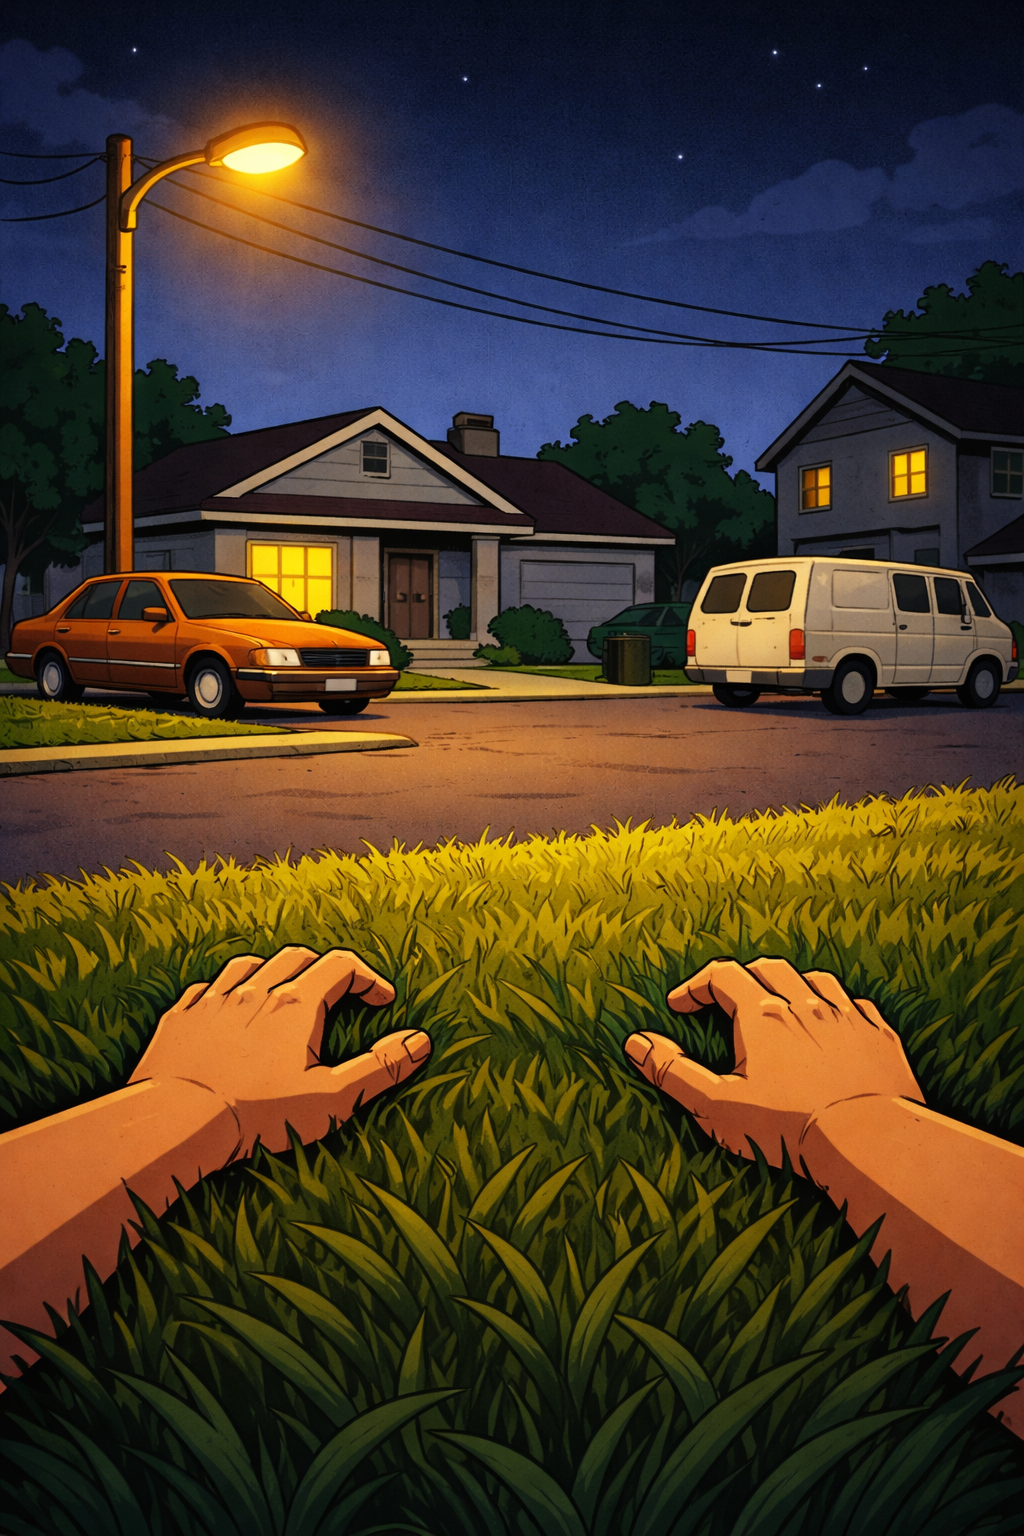
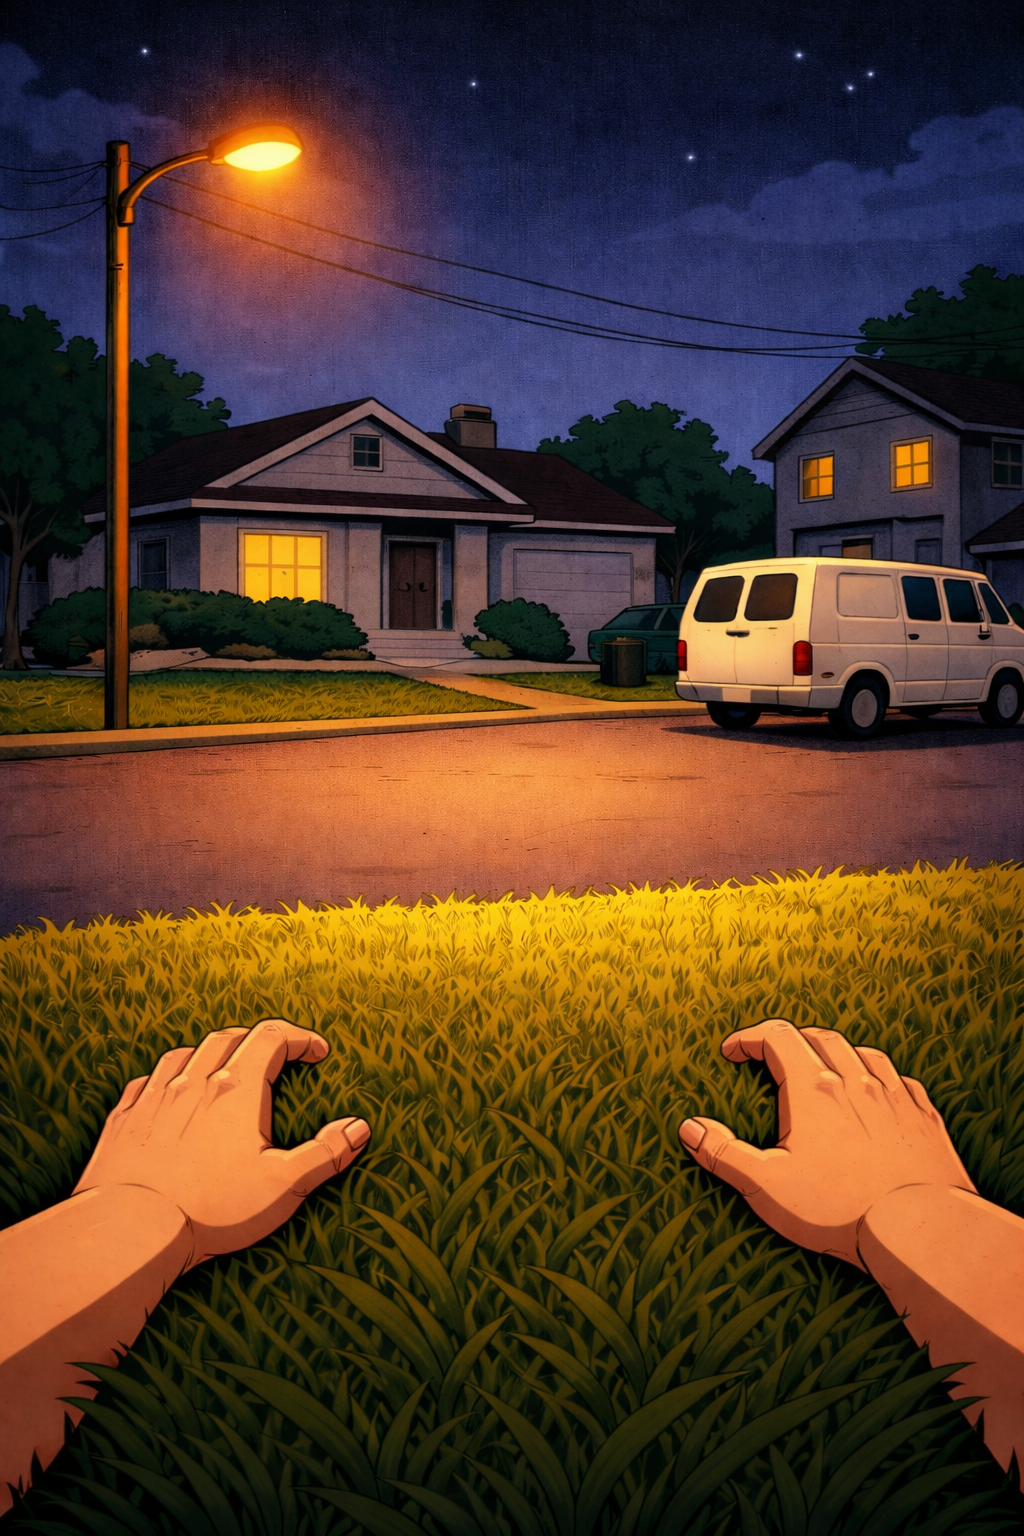
Add street exit scene and update interactions in car mirror check and porch scenes

diff --git a/src/data/chapter01/car-mirror-check.ts b/src/data/chapter01/car-mirror-check.ts
@@ -6,10 +6,10 @@ const carMirrorCheck: SceneDefinition = {
   name: "Car Mirror",
   description:
     "I check my reflection in a parked car’s side mirror. Baggy clothes, oversized boots. Runaway teenager: plausible cover.",
-  imageSrc: "/scenes/chapter01_clothes/car-mirror-check.png",
+  imageSrc: "/scenes/chapter01/car-mirror-check.png",
   interactions: [
     { label: "Leave the yard", effect: setScene("street-exit") },
-    { label: "Go back to the porch", effect: setScene("porch-boots") },
+    { label: "Go back to the porch", effect: setScene("porch") },
   ],
   objects: [
     {
@@ -22,14 +22,16 @@ const carMirrorCheck: SceneDefinition = {
         {
           label: "Confirm disguise",
           effect: (state) => {
-            const dressed =
-              state.inventory.includes("stolen-jeans") &&
-              state.inventory.includes("hang-in-there-t-shirt") &&
-              state.inventory.includes("oversized-boots");
+            // const dressed =
+            //   state.inventory.includes("stolen-jeans") &&
+            //   state.inventory.includes("hang-in-there-t-shirt") &&
+            //   state.inventory.includes("oversized-boots");
 
-            if (!dressed) {
-              return setMessage("Not convincing yet. I’m missing key components: fabric.")(state);
-            }
+            // if (!dressed) {
+            //   return setMessage(
+            //     "Not convincing yet. I’m missing key components: fabric."
+            //   )(state);
+            // }
 
             const stuffed = state.inventory.includes("newspaper-stuffing");
             return setMessage(

diff --git a/src/data/chapter01/porch.ts b/src/data/chapter01/porch.ts
@@ -13,13 +13,13 @@ const porchBoots: SceneDefinition = {
       effect: setScene("backyard-clothesline"),
     },
     {
-      label: "Check reflection in the car",
+      label: "Get to the street",
       effect: (state) => {
         const hasBoots = state.inventory.includes("oversized-boots");
         if (!hasBoots) {
           return setMessage("Bare feet are a liability. Acquire boots.")(state);
         }
-        return setScene("car-mirror-check")(state);
+        return setScene("street-exit")(state);
       },
     },
   ],
@@ -31,7 +31,7 @@ const porchBoots: SceneDefinition = {
         "Men’s size. Too big. Still better than frostbite and police attention.",
       visible: (s) => !s.inventory.includes("oversized-boots"),
       imageSrc: "/scenes/chapter01/porch-boots.png",
-      boundingBox: { x: 0.24, y: 0.62, width: 0.36, height: 0.22 },
+      boundingBox: { x: 0.5, y: 0.37, width: 0.29, height: 0.14 },
       interactions: [
         { label: "Take boots", effect: addToInventory("oversized-boots") },
       ],
@@ -43,7 +43,7 @@ const porchBoots: SceneDefinition = {
         "Ink, lies, and useful stuffing. Tonight, it’s mostly the third one.",
       visible: (s) => !s.inventory.includes("newspaper-stuffing"),
       imageSrc: "/scenes/chapter01/porch-newspaper.png",
-      boundingBox: { x: 0.62, y: 0.67, width: 0.28, height: 0.18 },
+      boundingBox: { x: 0.06, y: 0.63, width: 0.56, height: 0.22 },
       interactions: [
         {
           label: "Tear for boot stuffing",

diff --git a/src/data/chapter01/street-exit.ts b/src/data/chapter01/street-exit.ts
@@ -6,7 +6,7 @@ const streetExit: SceneDefinition = {
   name: "Suburban Street",
   description:
     "Now dressed, I can think about money, transport, and my target. One crisis at a time.",
-  imageSrc: "/scenes/chapter01_clothes/street-exit.png",
+  imageSrc: "/scenes/chapter01/street-exit.png",
   interactions: [
     { label: "Look back", effect: setScene("car-mirror-check") },
     {
